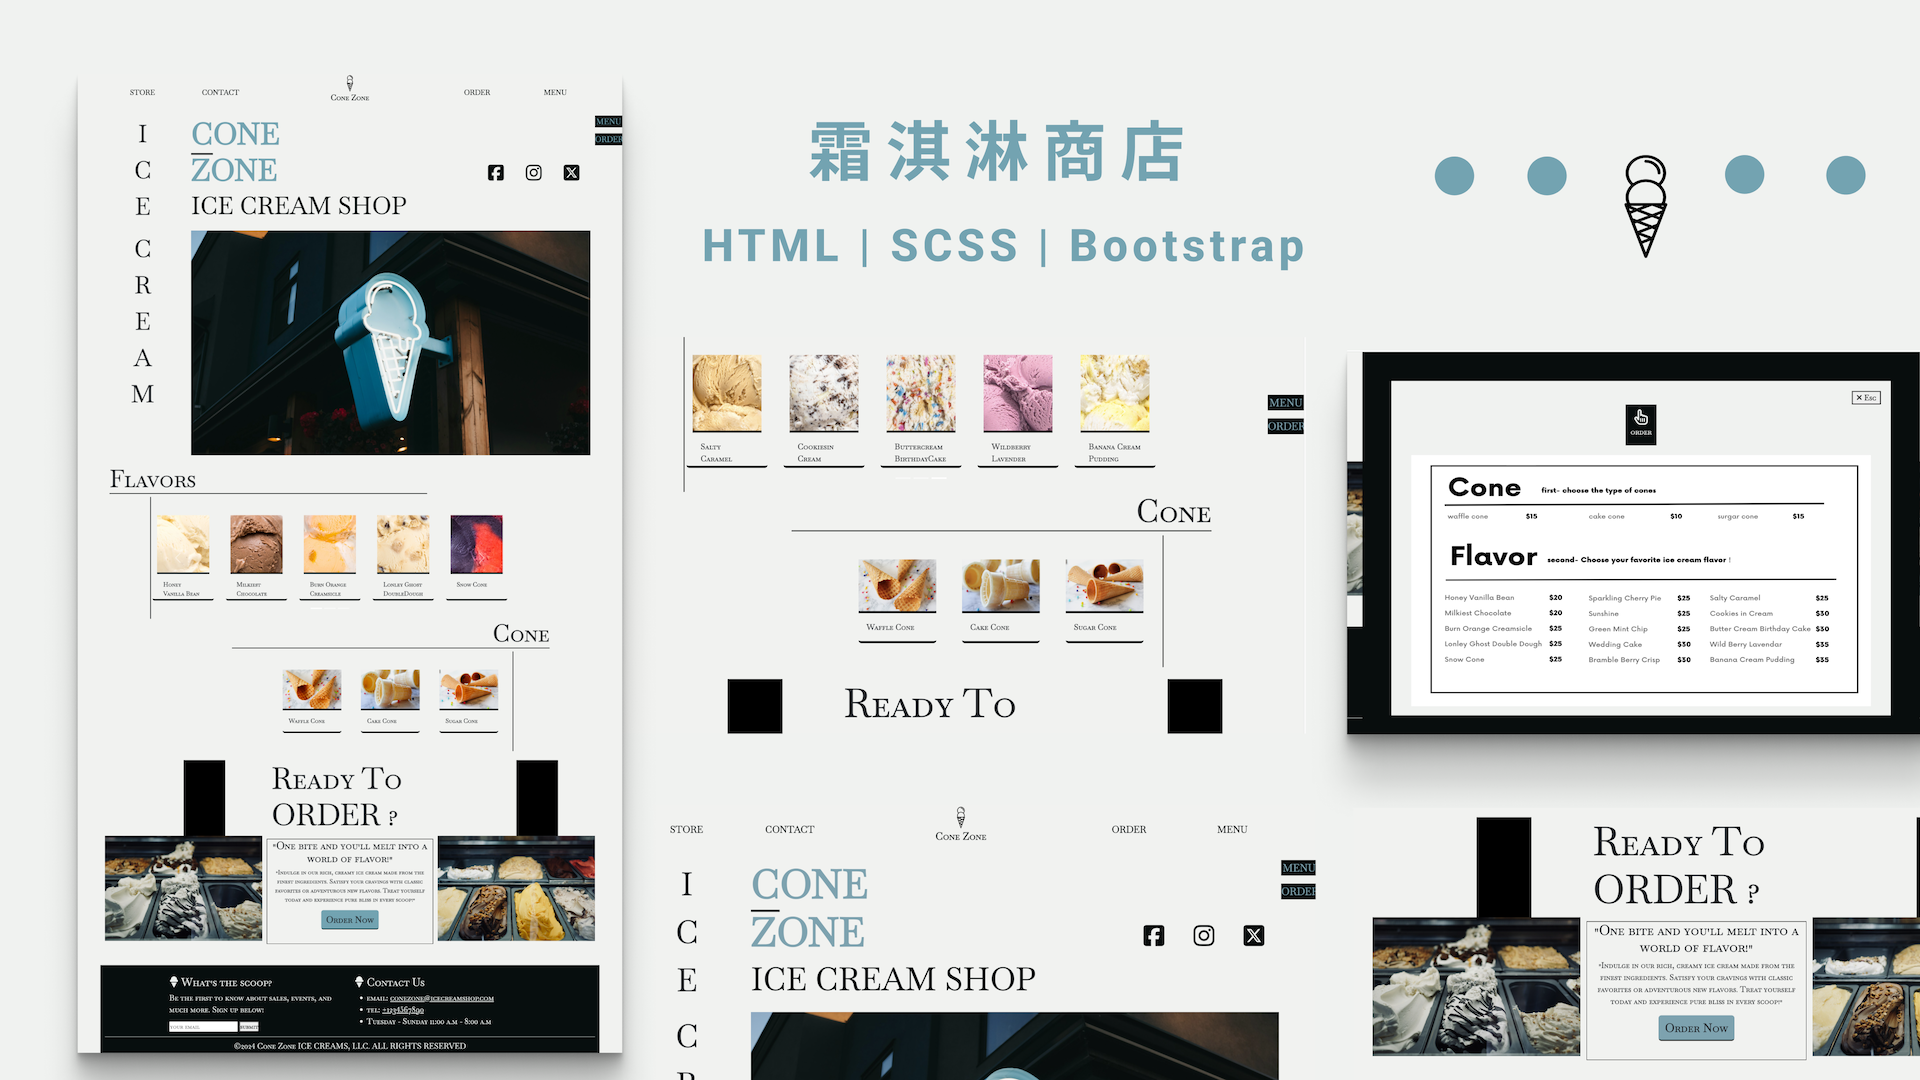
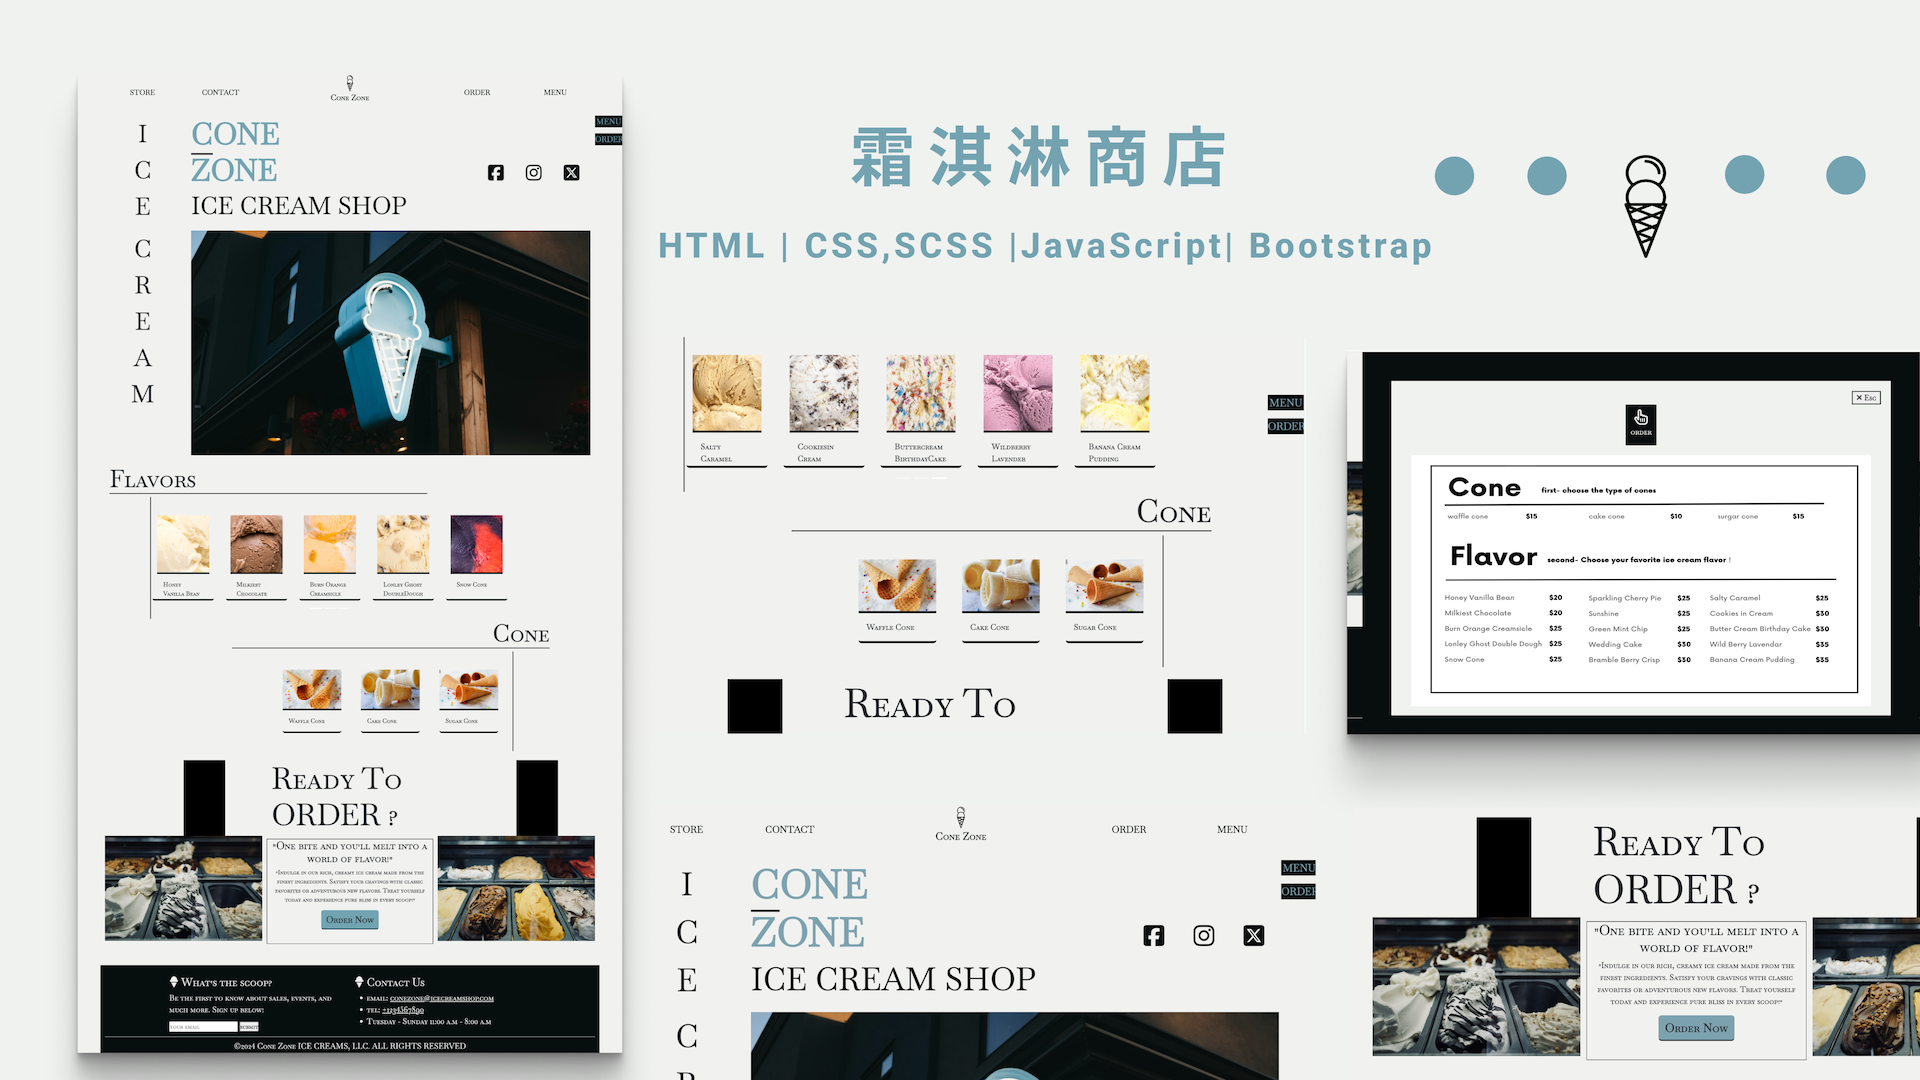
Update README content

Changed region(s): [[0.4062, 0.0917, 0.6562, 0.1833], [0.3438, 0.2139, 0.75, 0.2444]]

diff --git a/README.md b/README.md
@@ -1,14 +1,15 @@
 # Cone Zone - Ice Cream Shop 🍦
 
-![Project Cover](./public/霜淇淋商店%20cover.png)
+![Project Cover](./public/霜淇淋商店%20cover.pngm)
 
 ## 簡介
-Cone Zone 是一個以霜淇淋商店為主題的靜態頁面網站專案，使用 **HTML**、**SCSS** 與 **Bootstrap** 打造。專案旨在展示各種霜淇淋口味及甜筒種類，提供直觀易用的線上點單功能，結合簡約美觀的設計風格，讓用戶能夠輕鬆選購喜愛的冰品。
+Cone Zone 是一個以霜淇淋商店為主題的靜態頁面網站專案，使用 **HTML**、**SCSS**、**CSS**、**JavaScript**與 **Bootstrap** 打造。專案旨在展示各種霜淇淋口味及甜筒種類，提供直觀易用的線上點單功能，結合簡約美觀的設計風格，讓用戶能夠輕鬆選購喜愛的冰品。
 
 ### 技術棧
 - **前端**：
   - HTML
-  - SCSS
+  - SCSS/CSS
+  - JavaScript
   - Bootstrap
 
 - **版面設計工具**：
